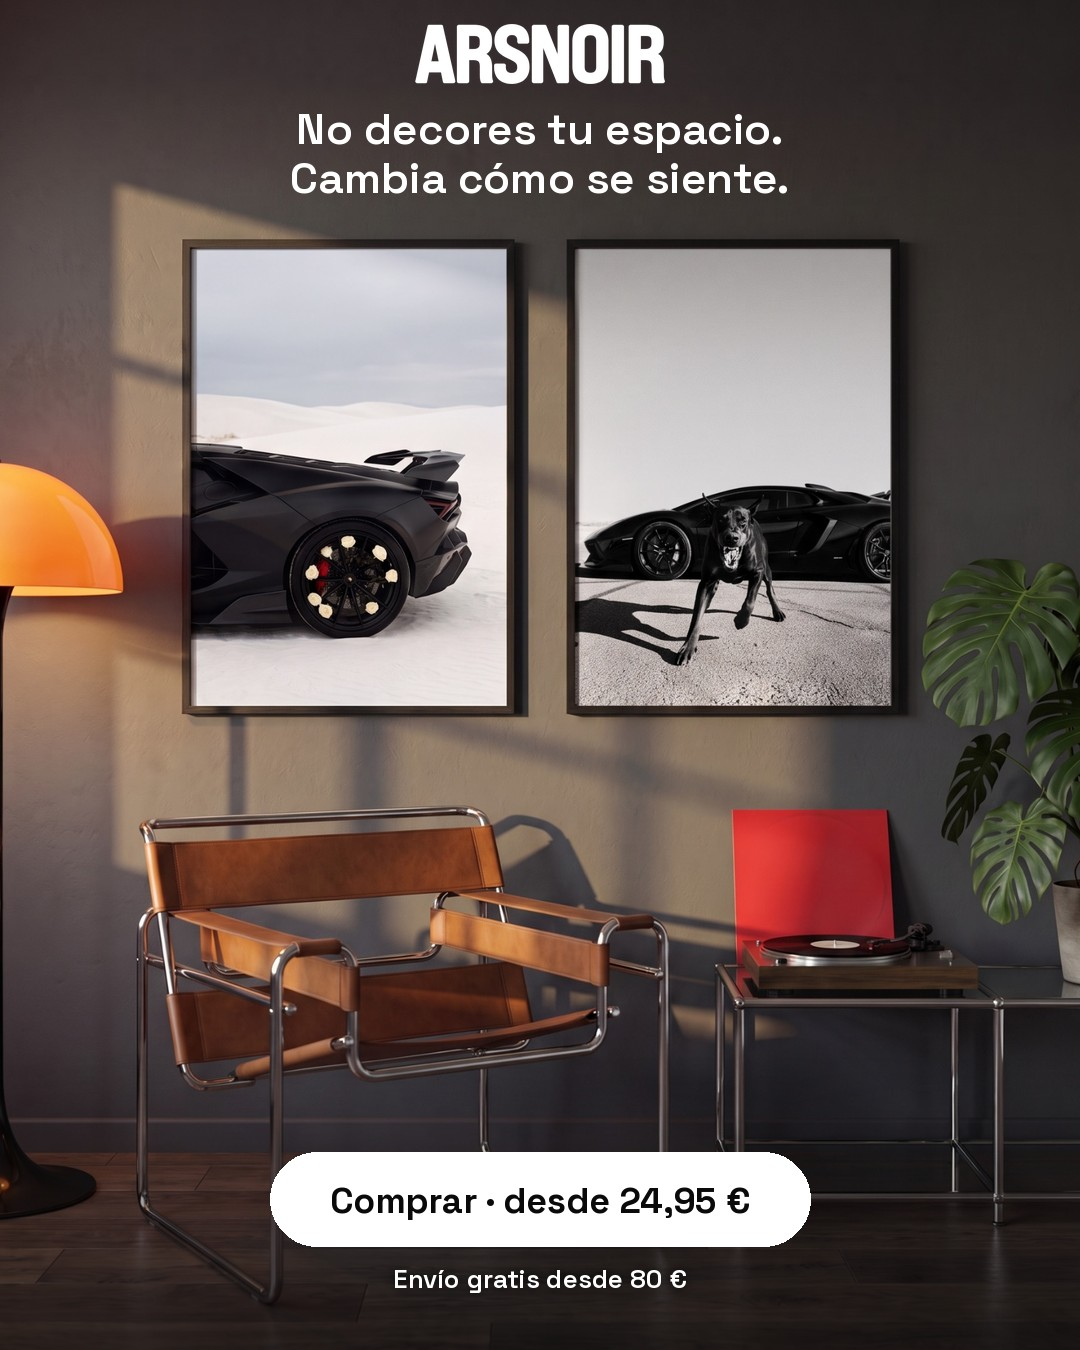
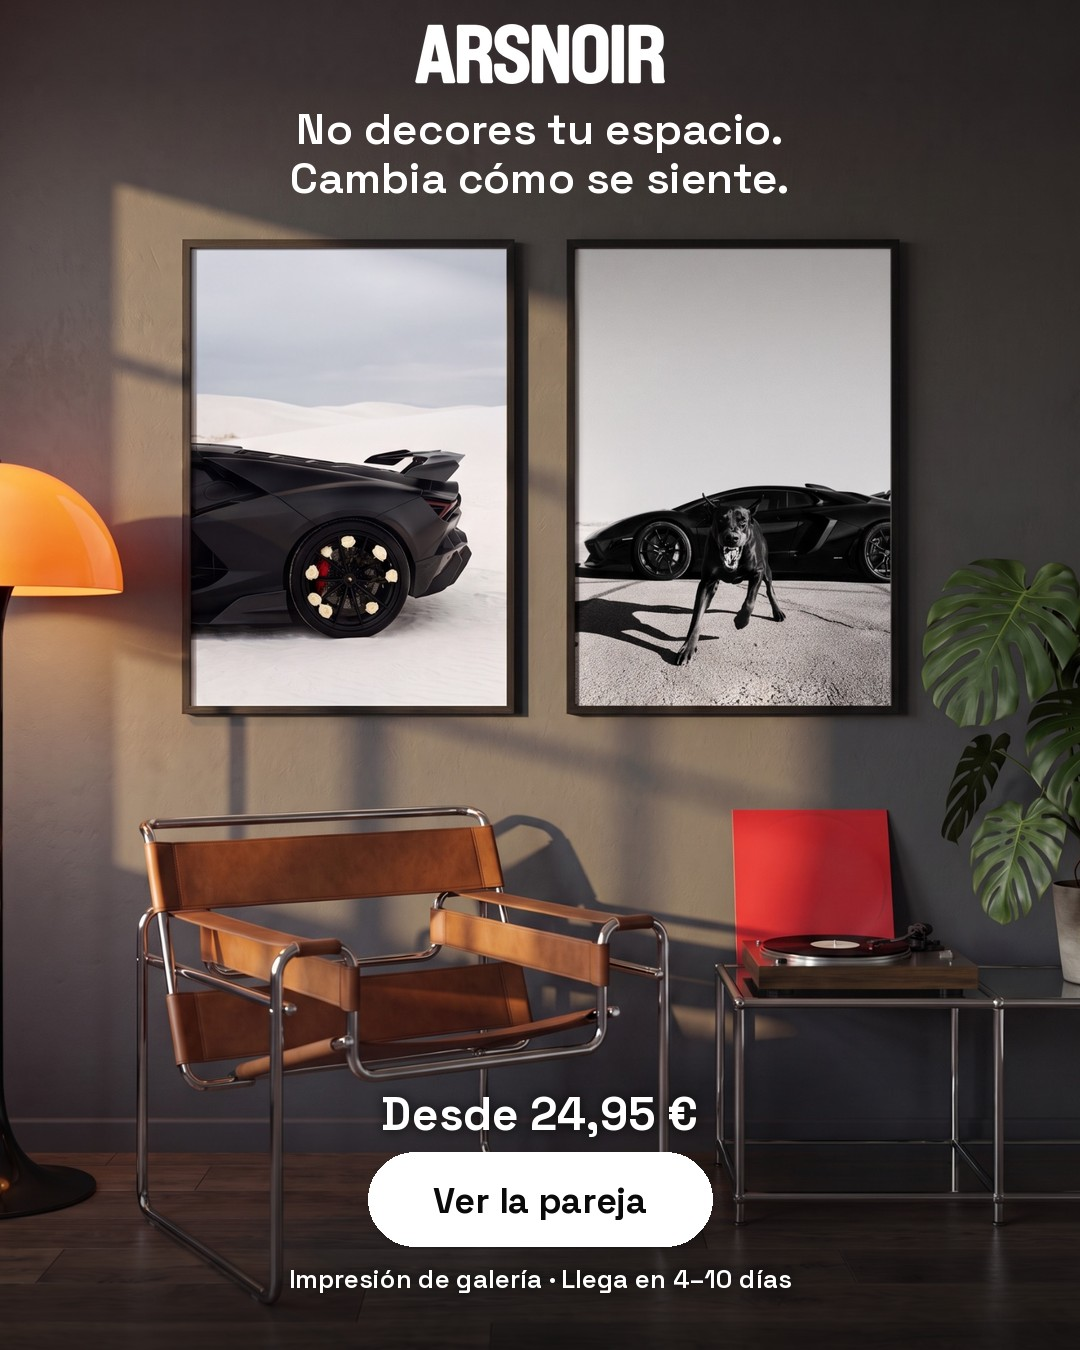
Meta Ads: c17 with the price above a softer «Ver la pareja» button and a quality/delivery line instead of the 80 € threshold
Claude-Session: https://claude.ai/code/session_0194VZ5ga5soZRAmzpfCecMg

Changed region(s): [[0.2444, 0.8089, 0.7639, 0.9644]]

diff --git a/data/meta-ads-creativos.py b/data/meta-ads-creativos.py
@@ -628,7 +628,7 @@ def wall_scene(src, W, H, photo_h, photo_y, center_x):
     return im.convert("RGBA")
 
 
-def brand_button_ad(cid, photo, lines, button, note=None):
+def brand_button_ad(cid, photo, lines, button, note=None, price=None):
     """Logotipo ARSNOIR en blanco y la frase arriba, sobre la pared de la foto; el botón solo, abajo."""
     src = Image.open(M / photo).convert("RGB")
     logo_src = Image.open(M / "ads/src/logo-arsnoir-blanco.png")
@@ -650,25 +650,30 @@ def brand_button_ad(cid, photo, lines, button, note=None):
         for line in lines:
             centered(d, cx, y, line, f, WHITE)
             y += round(size * 1.12)
+        def soft_text(y, text, tf, fill=WHITE):
+            sh = Image.new("RGBA", (W, H), (0, 0, 0, 0))
+            centered(ImageDraw.Draw(sh), cx, y, text, tf, (0, 0, 0, 230))
+            im.alpha_composite(sh.filter(ImageFilter.GaussianBlur(6)))
+            centered(ImageDraw.Draw(im), cx, y, text, tf, fill)
+
         bf = grotesk(36, 700)
-        bw, bh = d.textlength(button, font=bf) + 120, 94
+        bw, bh = d.textlength(button, font=bf) + 130, 94
         by = H - (104 if note else 64) - bh if fmt == "4x5" else round(H * 0.80) - bh - (40 if note else 0)
+        if price:
+            pf = grotesk(46 if fmt == "4x5" else 52, 700)
+            soft_text(by - pf.size - 22, price, pf)
+        d = ImageDraw.Draw(im)
         d.rounded_rectangle((cx - bw / 2, by, cx + bw / 2, by + bh), radius=bh / 2, fill=WHITE)
         centered(d, cx, by + (bh - 36) / 2 - 4, button, bf, INK)
         if note:
-            nf = grotesk(26 if fmt == "4x5" else 30, 600)
-            sh = Image.new("RGBA", (W, H), (0, 0, 0, 0))
-            centered(ImageDraw.Draw(sh), cx, by + bh + 16, note, nf, (0, 0, 0, 230))
-            im.alpha_composite(sh.filter(ImageFilter.GaussianBlur(5)))
-            d = ImageDraw.Draw(im)
-            centered(d, cx, by + bh + 16, note, nf, WHITE)
+            soft_text(by + bh + 16, note, grotesk(26 if fmt == "4x5" else 30, 600))
         save(im, f"{cid}-{fmt}.jpg")
 
 
 brand_button_ad(
     "c17-pareja-motor-boton", PAIR,
-    ["No decores tu espacio.", "Cambia cómo se siente."], "Comprar · desde 24,95 €",
-    note="Envío gratis desde 80 €",
+    ["No decores tu espacio.", "Cambia cómo se siente."], "Ver la pareja",
+    price="Desde 24,95 €", note="Impresión de galería · Llega en 4–10 días",
 )
 
 if __name__ == "__main__":
